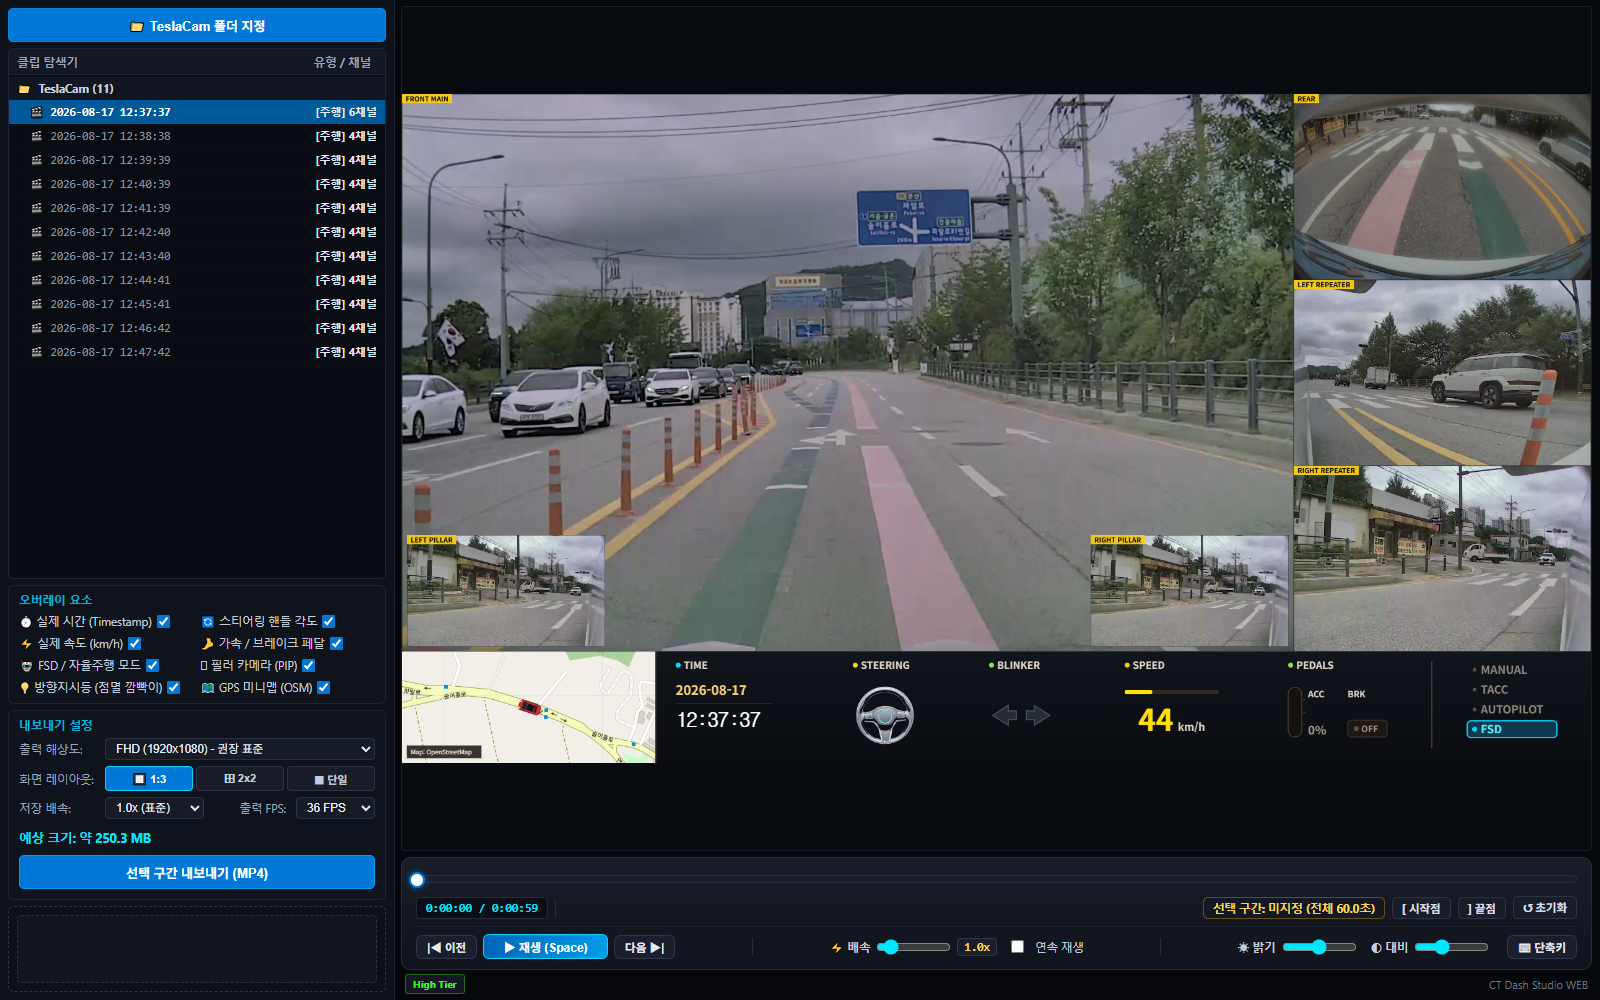
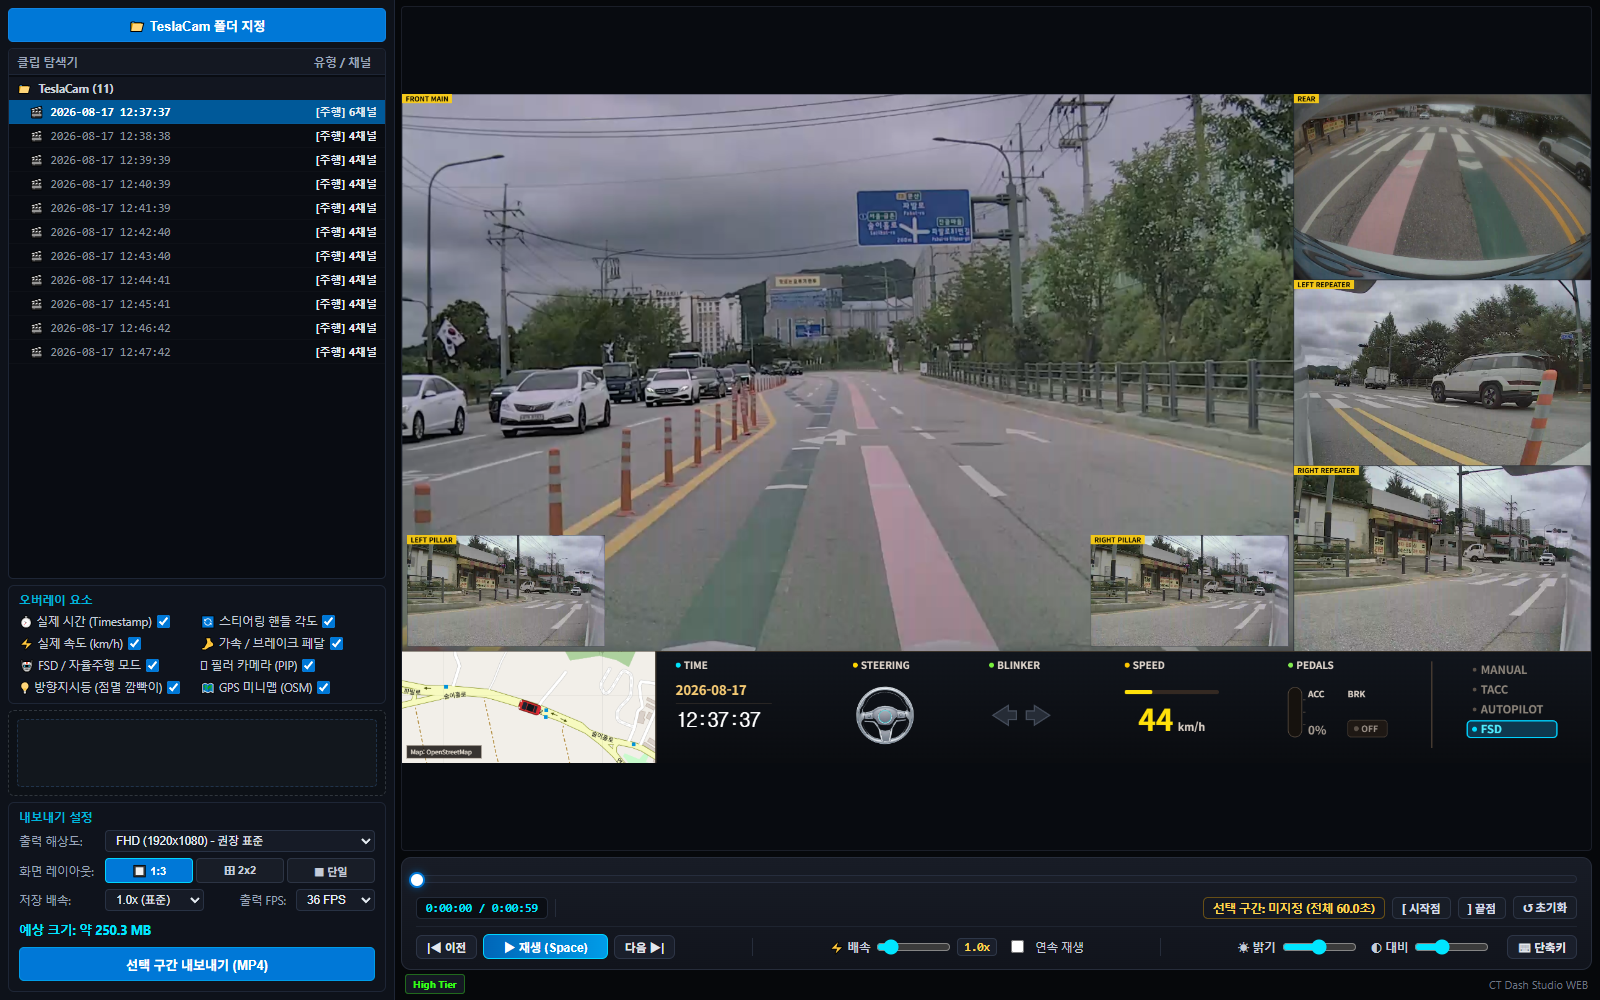
fix: relocate ad box back to original position between overlays and export sections

Changed region(s): [[0.0, 0.713, 0.25, 0.992]]

diff --git a/index.html b/index.html
@@ -122,6 +122,11 @@
                 <span id="lbl-contrast-sub-val" class="adjust-val">100%</span>
               </div>
             </div>
+
+            <!-- 광고 배너 영역 (원위치: 오버레이 요소 바로 아래, 개인정보 보호 자리) -->
+            <div class="group-box ad-box-group">
+              <div class="ad-card-placeholder"></div>
+            </div>
           </div>
 
           <!-- 1-3. 내보내기 설정 그룹 (모바일 탭: export) -->
@@ -177,11 +182,6 @@
                 <div id="export-pbar-fill" class="export-pbar-fill"></div>
               </div>
               <div id="export-status-label" class="export-status-text" style="display: none;">대기 중...</div>
-            </div>
-
-            <!-- 광고 배너 영역 (추후 광고용 자리 예약) -->
-            <div class="group-box ad-box-group">
-              <div class="ad-card-placeholder"></div>
             </div>
           </div>
         </aside>
